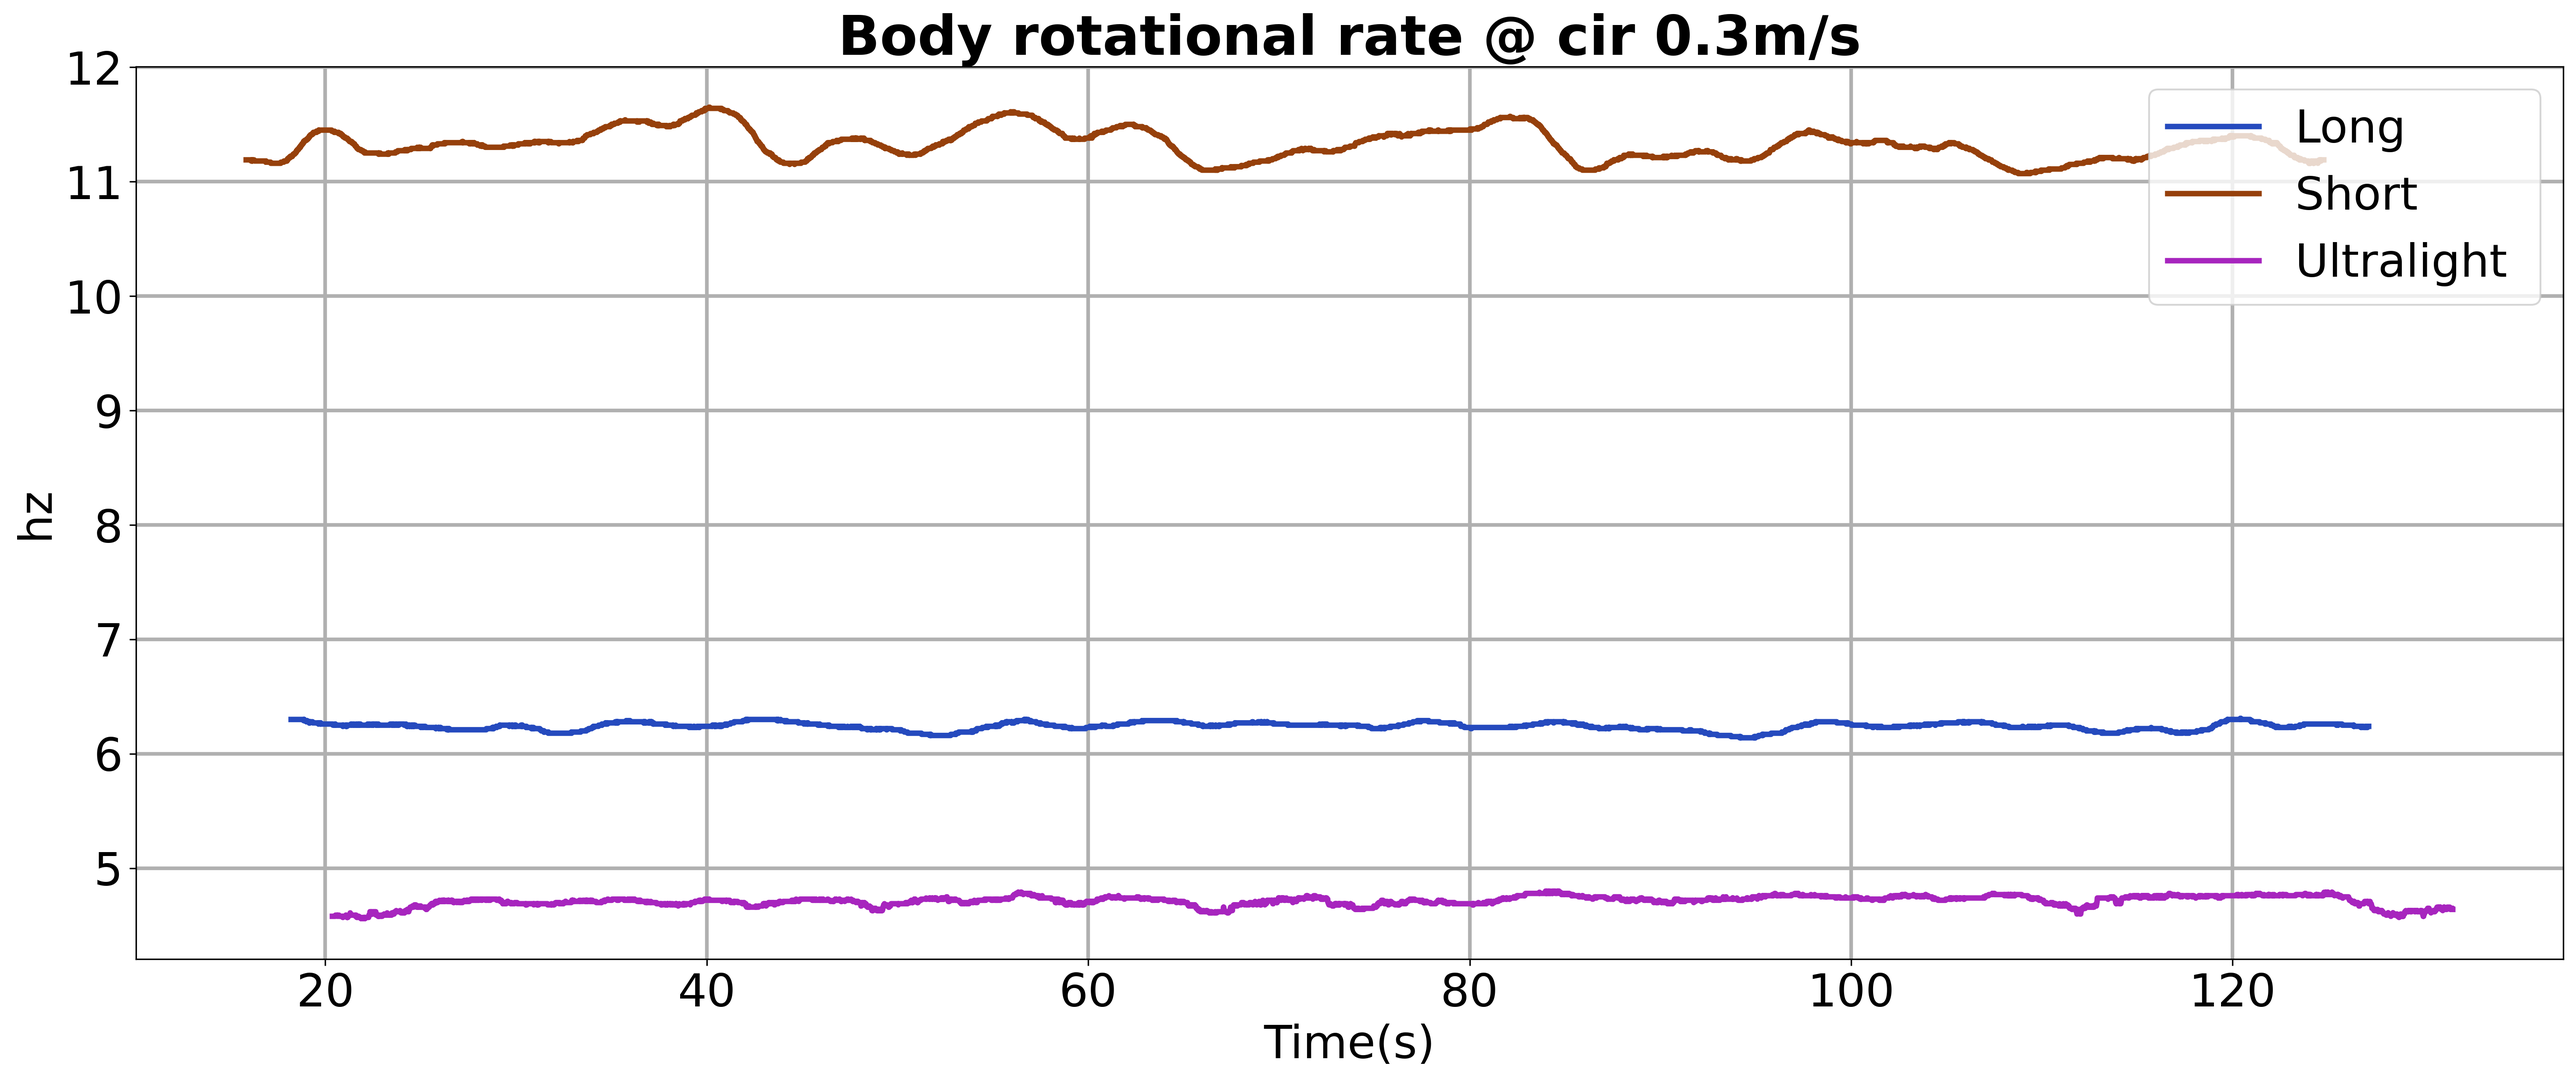
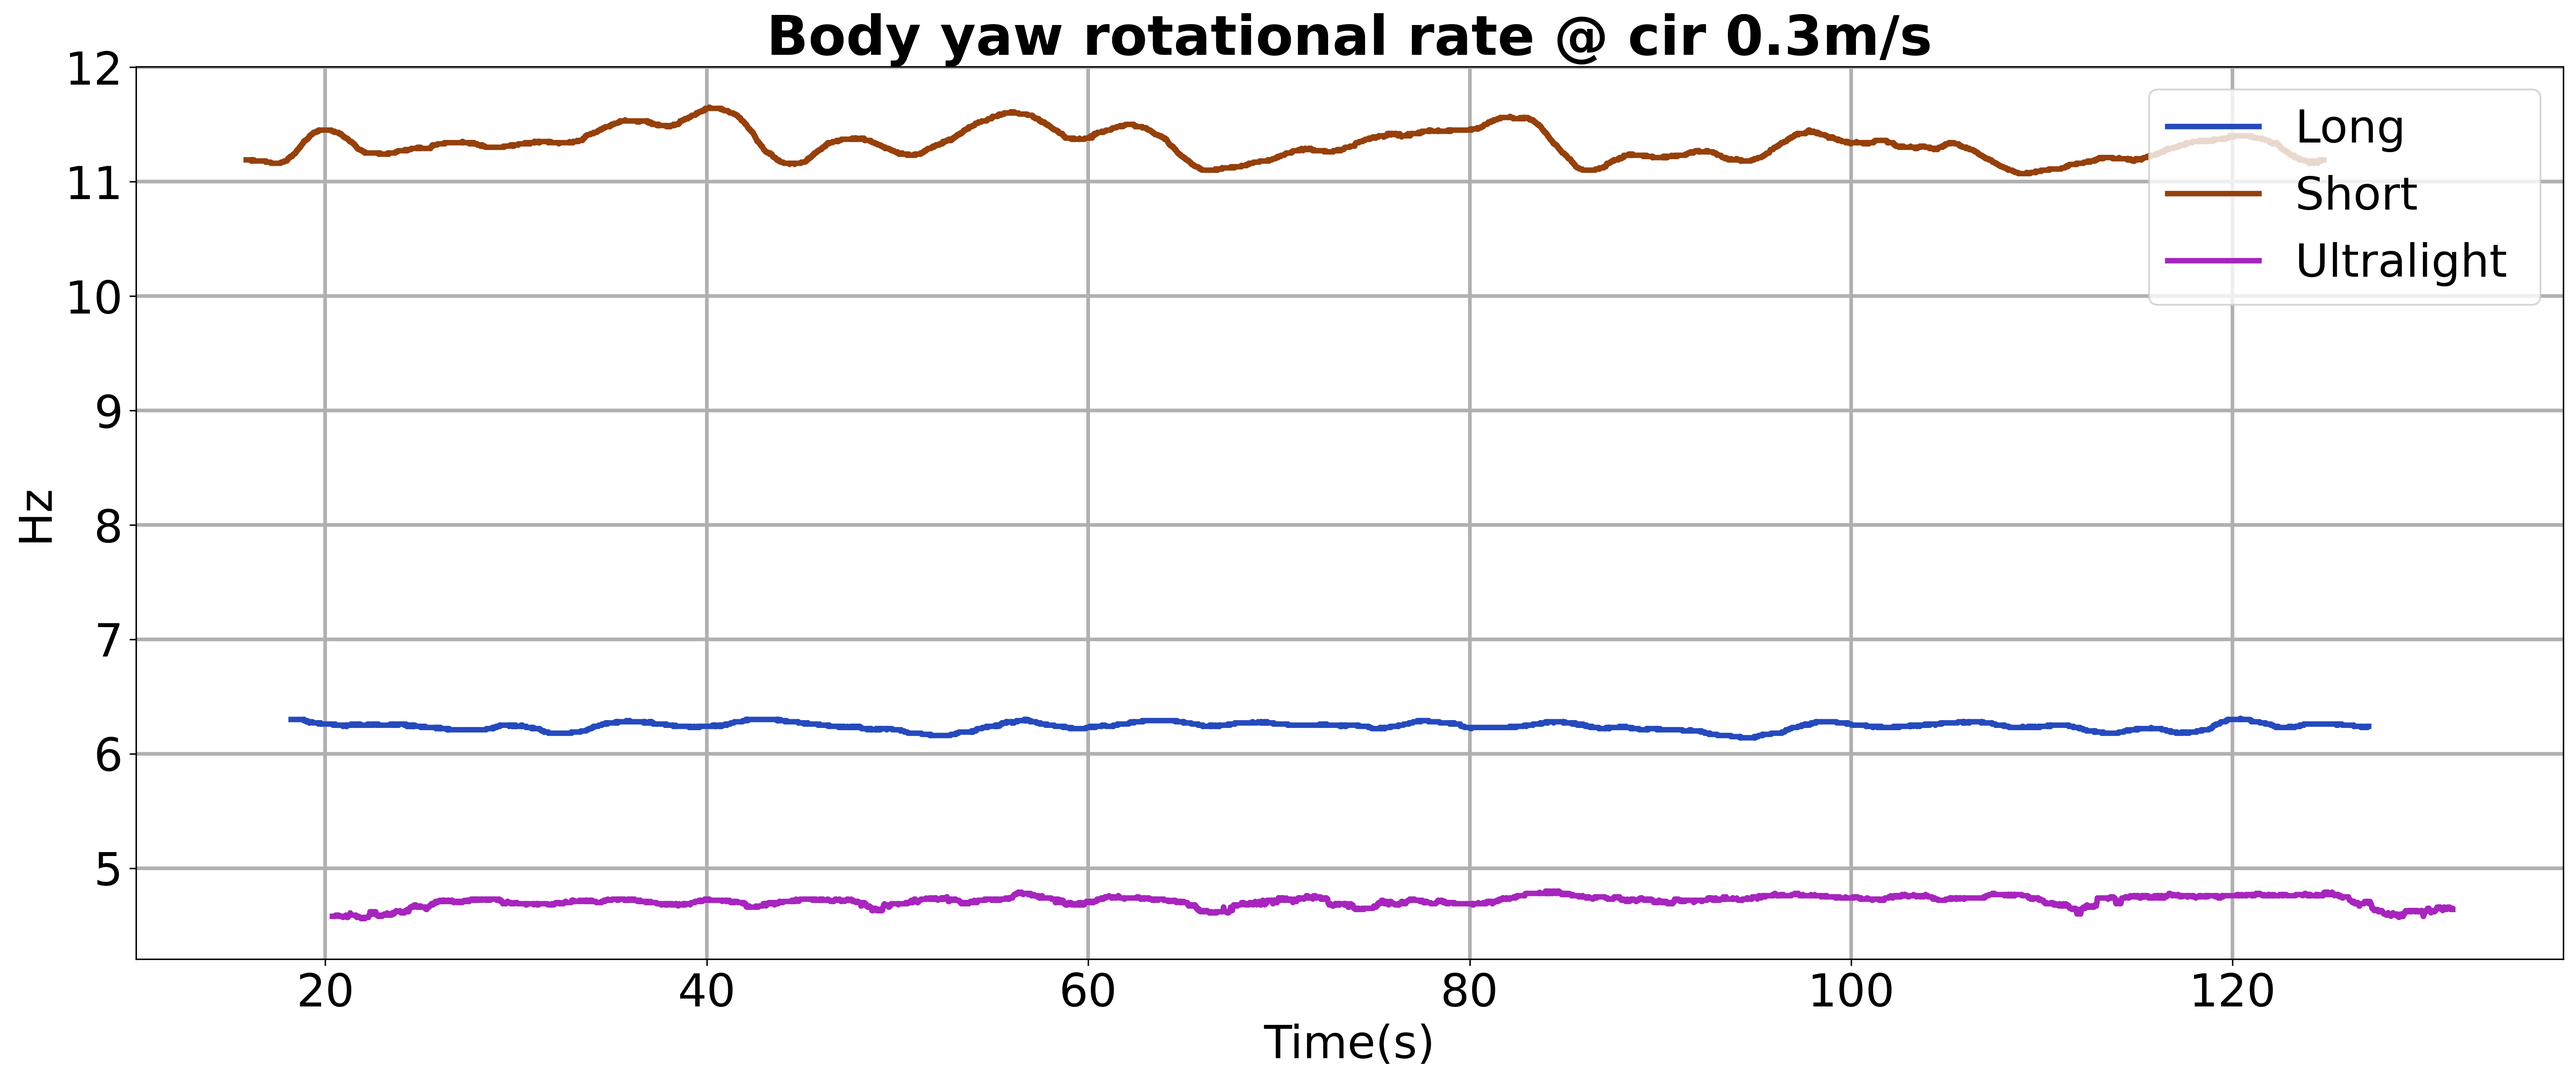
change to Hz

Changed region(s): [[0.2805, 0.0, 0.7481, 0.0625], [0.0, 0.4686, 0.0312, 0.4998]]

diff --git a/paper_plots/yawrate_plotter copy.py b/paper_plots/yawrate_plotter copy.py
@@ -51,10 +51,10 @@ for a in range(len(wing)): # 3 trajs
     ax1.plot(traj_time_yawrate, yawrate, color=colors[a], linestyle='solid', linewidth=3.0, label=wing_label)
     
 ax1.set_xlabel('Time(s)', fontsize=25)
-ax1.set_ylabel('hz', fontsize=25)
+ax1.set_ylabel('Hz', fontsize=25)
 ax1.tick_params(axis='both', labelsize=25)
 ax1.legend(loc='upper right', fontsize=25)
-ax1.set_title('Body rotational rate @ cir 0.3m/s', fontsize=30, fontweight='bold')
+ax1.set_title('Body yaw rotational rate @ cir 0.3m/s', fontsize=30, fontweight='bold')
 ax1.grid(linewidth=2.0)    
   
 plt.savefig('yawrate.png', dpi=300, bbox_inches='tight')  

diff --git a/paper_plots/att_graphs_plotter.py b/paper_plots/att_graphs_plotter.py
@@ -52,9 +52,9 @@ for t in range(3): # trajectories
 
     for a in range(2): # 2 graphs per traj
         if a == 0:
-            att_label = '∥¨ωDE∥ (rad/s^2)'   
+            att_label = '∥˙ωDE∥ (rad/s^2)'   
         elif a == 1:
-            att_label = 'Body rotational rate (hz)'  
+            att_label = 'Body yaw rotational rate (Hz)'  
 
         if a == 1:
             for m in range(2): # 0.5 INDI and NDI  
